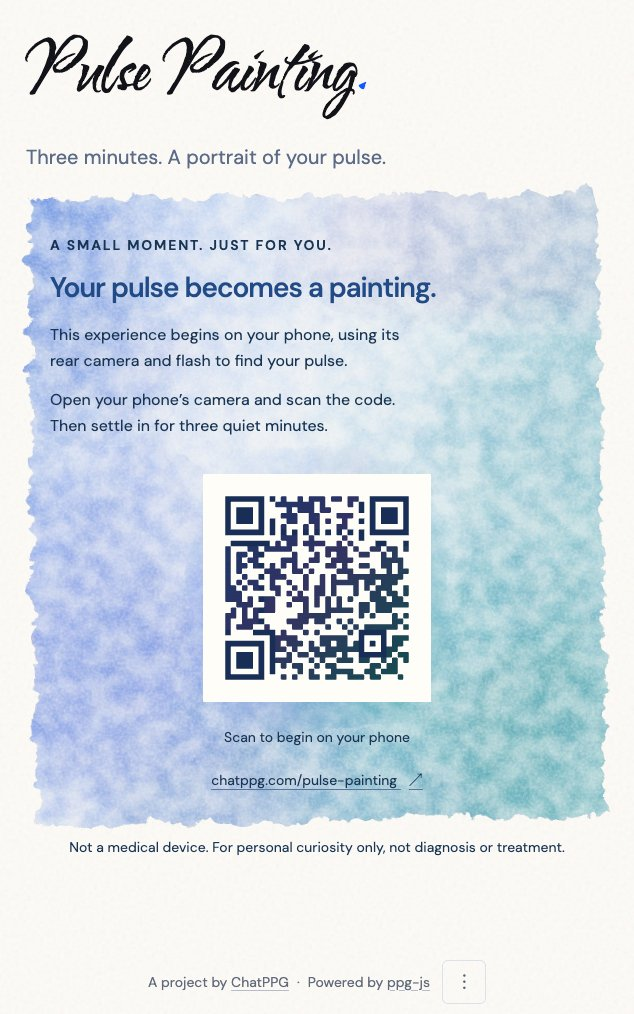
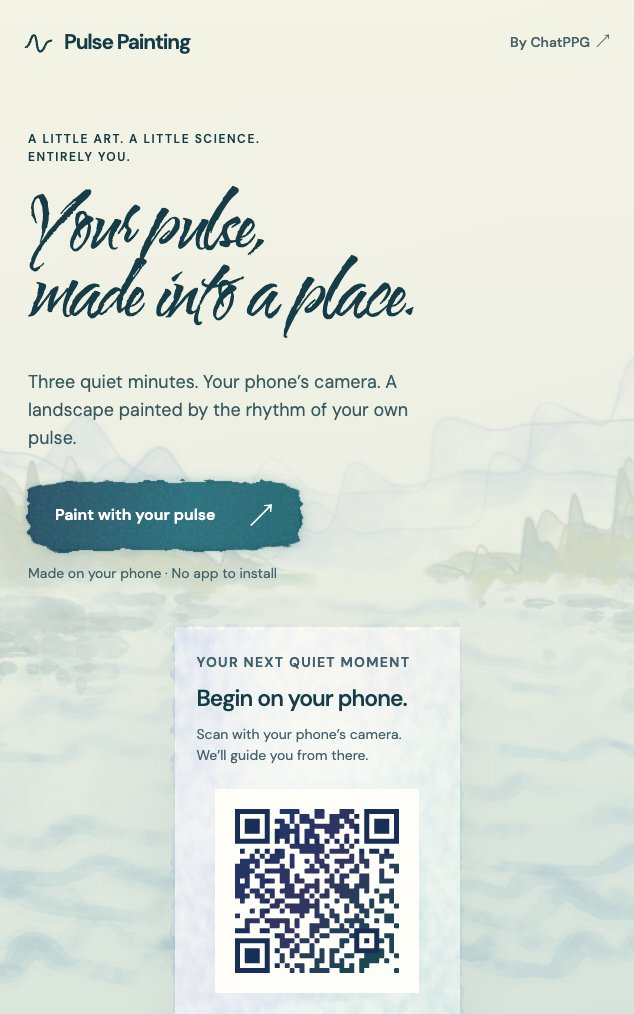
docs: refresh accepted landscape candidate screenshots

diff --git a/docs/media/README.md b/docs/media/README.md
@@ -1,49 +1,79 @@
 # Pulse Painting screenshots
 
-## Earlier manuscript screenshots
+These are direct browser captures of the current local landscape release candidate,
+including the accepted Quiet Lake paint treatment. They replace the earlier
+manuscript screenshots. They do not establish a production deployment; see
+[HANDOFF.md](../../HANDOFF.md) for release status.
 
-Captured from the standalone app build (`dist/index.html`) at 2026-10-22T03:06:02.601Z (October 21 in America/Chicago), before its first separate deployment. The ChatPPG host route is https://chatppg.com/pulse-painting.
+Captured from the actual static `dist/` build at `http://127.0.0.1:64314/` between
+`2026-10-23T03:45:21.438Z` and `2026-10-23T03:48:44.272Z`
+(October 22, 2026 in America/Chicago). The source revision before this documentation
+update was `163329204fd95c80c1eb869d29cf403836c22693`.
 
-- Mobile screenshots use Chromium with iPhone 13 browser emulation, a 390 × 844 CSS-pixel viewport, and device scale factor 1.
-- The optional desktop QR screenshot uses a 634 × 1014 viewport and device scale factor 1.
-- All images are direct browser screenshots saved as JPEG at quality 85. Reduced motion is enabled to capture settled screens. No screenshot pixels, interface text, or metric values were edited.
-- `pulse-painting-ready.jpg` and `pulse-painting-qr.jpg` are ordinary page renders.
-- `pulse-painting-capture.jpg` and `pulse-painting-report.jpg` use the repository's public `test/fixtures/iphone-200s.json` recording through the built signal engine and application callbacks. Camera input is mocked; the empty live-preview thumbnail is expected. Capture is shown after 70 seconds of recorded samples, and the report follows manual completion after 180 seconds of recorded samples. This accelerated replay does not advance the wall-clock countdown, so the capture image still displays 3:00.
-- The replay report computes mean pulse 71 bpm, RMSSD 53.6 ms, and SDNN 47.6 ms from the recording. These are fixture results, not a new physical-device measurement or a physiological-accuracy validation.
+## Capture method
 
-| File | Pixels | Bytes |
-| --- | --- | ---: |
-| `pulse-painting-ready.jpg` | 390 × 844 | 51,978 |
-| `pulse-painting-capture.jpg` | 390 × 844 | 56,304 |
-| `pulse-painting-report.jpg` | 390 × 844 | 62,026 |
-| `pulse-painting-qr.jpg` | 634 × 1014 | 113,853 |
+- Chrome `155.0.8059.85`, controlled through Playwright 1.63.0 on macOS.
+- The three phone screens use iPhone 13 browser emulation at 390 × 844 CSS pixels.
+  Desktop uses 1440 × 1000; the additional narrow desktop QR view uses 634 × 1014.
+  Every capture uses device scale factor 1 and reduced motion, with fonts loaded.
+- Direct browser JPEG output at quality 85, limited to the viewport. No screenshot
+  pixels, interface text, metric values or QR elements were edited after capture.
+- Ready and desktop are ordinary page renders. The desktop background is the
+  actual Quiet Lake gallery example, generated by the app renderer from the
+  public fixture with seed 39293 and 148.9 seconds of accepted waveform.
+- Capture and report use a 1× wall-clock replay of
+  `test/fixtures/iphone-200s.json` through the built signal engine, real monitor
+  window adapter and application callbacks. Only camera I/O is mocked. The empty
+  live-preview thumbnail is expected. Scene family and seed are fixed to
+  `quiet-lake` and `39293` for repeatable artwork.
+- The capture image was taken after 50.008 active measurement seconds and 68.924
+  seconds of fixture replay. Its real countdown is **2:11**; its displayed pulse,
+  RMSSD and SDNN are **67 bpm, 42 ms and 37 ms**. At that point the painting contains
+  39.683 seconds of accepted waveform.
+- The session completed automatically after 180.079 active measurement seconds.
+  The report contains 168.733 seconds of accepted waveform (displayed as 2 min
+  49 sec), and computes **71 bpm, 54.5 ms RMSSD and 51.5 ms SDNN**. The report capture
+  waits for the actual artwork export to become ready. The replay consumed
+  11,102 of the original 11,127 fixture samples; no repeated tail was needed.
+- These are public-fixture results, not new physical-phone measurements,
+  physiological-accuracy evidence, native share-sheet acceptance or a performance
+  benchmark. No physical camera or native sharing action was used.
 
-## Desktop landscape candidate
+The screenshot run completed without page errors. Its reproducible capture script
+and raw evidence remain in ignored `.dream-loop/release-readme/`; they are separate
+from the full WebKit interruption-recovery test.
 
-`pulse-painting-desktop-candidate.jpg` was captured at
-2026-10-22T17:21:22.138Z from the actual local integrated build at
-`http://127.0.0.1:8094/`. It shows the current landscape candidate, not a
-production deployment or an approved final visual design.
+## Build and input provenance
 
-- Chrome controlled through Playwright, 1440 × 1000 CSS pixels, device scale
-  factor 1, reduced motion enabled, fonts and hero image fully loaded.
-- Direct browser JPEG output at quality 85. No pixels, text or QR elements were
-  edited after capture.
-- The background is the actual Quiet lake gallery example, generated by
-  `tools/generate-gallery.mjs` from the already-public
-  `test/fixtures/iphone-200s.json` recording. It uses 148.9 seconds of usable
-  waveform and the fixed gallery seed; it is not a visitor submission.
-- The served renderer and gallery manifest were verified against renderer
[1 lines of base64/hex data omitted]
-- No phone camera or native share action was used. This image establishes the
-  browser-rendered interface, not physical-device acceptance.
-- Additional actual hero, gallery and lightbox captures at 1440 and 634 pixels
-  wide, plus scoped geometry/network evidence, are kept in ignored
-  `.dream-loop/desktop-gallery-round11/`. The capture browser was closed.
+The source renderer and served `dist/landscape.js` were both checked against:
 
-| File | Pixels | Bytes |
-| --- | --- | ---: |
-| `pulse-painting-desktop-candidate.jpg` | 1440 × 1000 | 143,065 |
[1 lines of base64/hex data omitted]
 
-Image SHA-256:
[1 lines of base64/hex data omitted]
+Public fixture SHA-256:
+
[1 lines of base64/hex data omitted]
+
+Served gallery manifest SHA-256:
+
[1 lines of base64/hex data omitted]
+
+The [gallery manifest](../../app/assets/gallery/manifest.json) records the renderer,
+fixture, engine, acceptance adapter and individual gallery image hashes.
+
+## Image files
+
+| File | Pixels | Bytes | Captured at (UTC) |
+| --- | --- | ---: | --- |
+| `pulse-painting-desktop-candidate.jpg` | 1440 × 1000 | 151,921 | `2026-10-23T03:45:21.438Z` |
+| `pulse-painting-qr.jpg` | 634 × 1014 | 81,054 | `2026-10-23T03:45:21.784Z` |
+| `pulse-painting-ready.jpg` | 390 × 844 | 51,933 | `2026-10-23T03:45:22.967Z` |
+| `pulse-painting-capture.jpg` | 390 × 844 | 39,615 | `2026-10-23T03:46:33.679Z` |
+| `pulse-painting-report.jpg` | 390 × 844 | 52,144 | `2026-10-23T03:48:44.271Z` |
+
+| File | SHA-256 |
+| --- | --- |
[5 lines of base64/hex data omitted]

diff --git a/README.md b/README.md
@@ -4,19 +4,19 @@ Your pulse, made into a place.
 
 > Landscape release candidate: the Quiet Lake paint treatment is approved and integrated across all sixteen scenes.
 > Final release checks are in progress; physical-device validation remains separate.
-> The public site and phone screenshots below currently show the earlier manuscript app.
-> The landscape gallery images are actual renders from the current candidate, not a deployed release.
+> The phone screenshots, desktop screenshot and gallery examples below show the current local candidate.
+> These captures do not establish a production release.
 > See [HANDOFF.md](HANDOFF.md) for the visual review and deployment status.
 
-Pulse Painting is a three-minute phone-camera capture experience by [ChatPPG](https://chatppg.com), powered by [ppg-js](https://github.com/sontakey/ppg-js). Accepted pulse waveforms paint one of sixteen landscapes, with organic cobalt, iris, and teal gradients. A close-up follows the brush during capture, then pulls back to reveal the same painting, ready to share alongside an expandable HRV report.
+Pulse Painting is a three-minute phone-camera capture experience by [ChatPPG](https://chatppg.com), powered by [ppg-js](https://github.com/sontakey/ppg-js). Accepted pulse waveforms paint one of sixteen landscapes, with layered watercolor washes and recognizable pulse contours. A close-up follows the brush during capture, then pulls back to reveal the same painting, ready to share alongside an expandable HRV report.
 
 <p align="center">
   <img src="docs/media/pulse-painting-ready.jpg" width="230" alt="Pulse Painting phone capture instructions">
-  <img src="docs/media/pulse-painting-capture.jpg" width="230" alt="Painted pulse strokes, live metrics, and floating capture controls">
+  <img src="docs/media/pulse-painting-capture.jpg" width="230" alt="Quiet Lake painting, live metrics, and floating capture controls">
   <img src="docs/media/pulse-painting-report.jpg" width="230" alt="Shareable Pulse Painting artwork and report">
 </p>
 
-The screenshots use browser replay with mocked camera input; see [capture provenance](docs/media/README.md). They are not new physical-phone measurements.
+The current screenshots use a real-time replay of the public recording with mocked camera input and reduced motion enabled; see [capture provenance](docs/media/README.md). They are not new physical-phone measurements.
 
 The primary destination is [pulsepainting.com](https://www.pulsepainting.com/), a separate Vercel project connected to this repository. The apex domain redirects to www. The simple library demo remains at [ChatPPG](https://chatppg.com/ppg-js-demo). Release and public verification status are tracked in [HANDOFF.md](HANDOFF.md).
 
